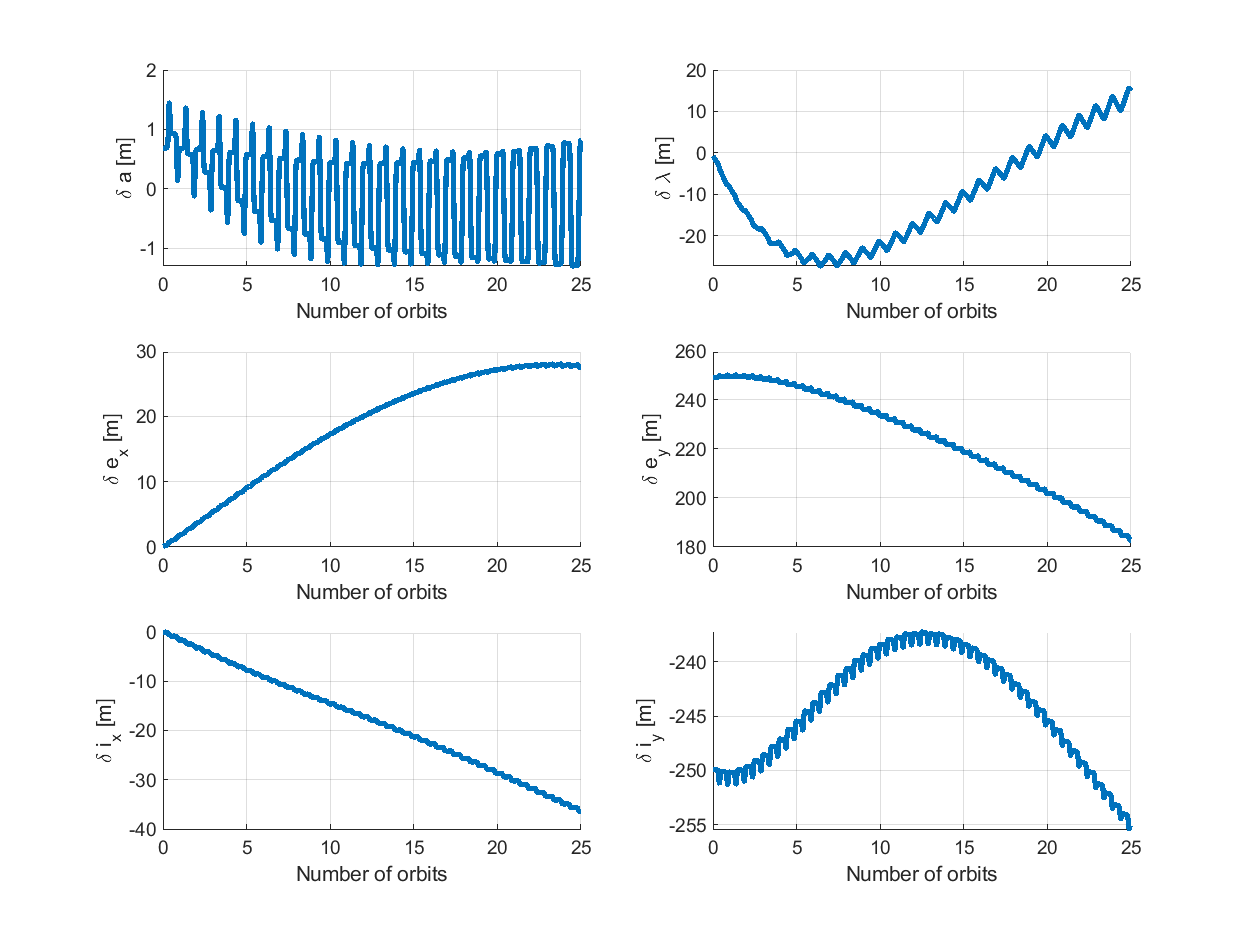
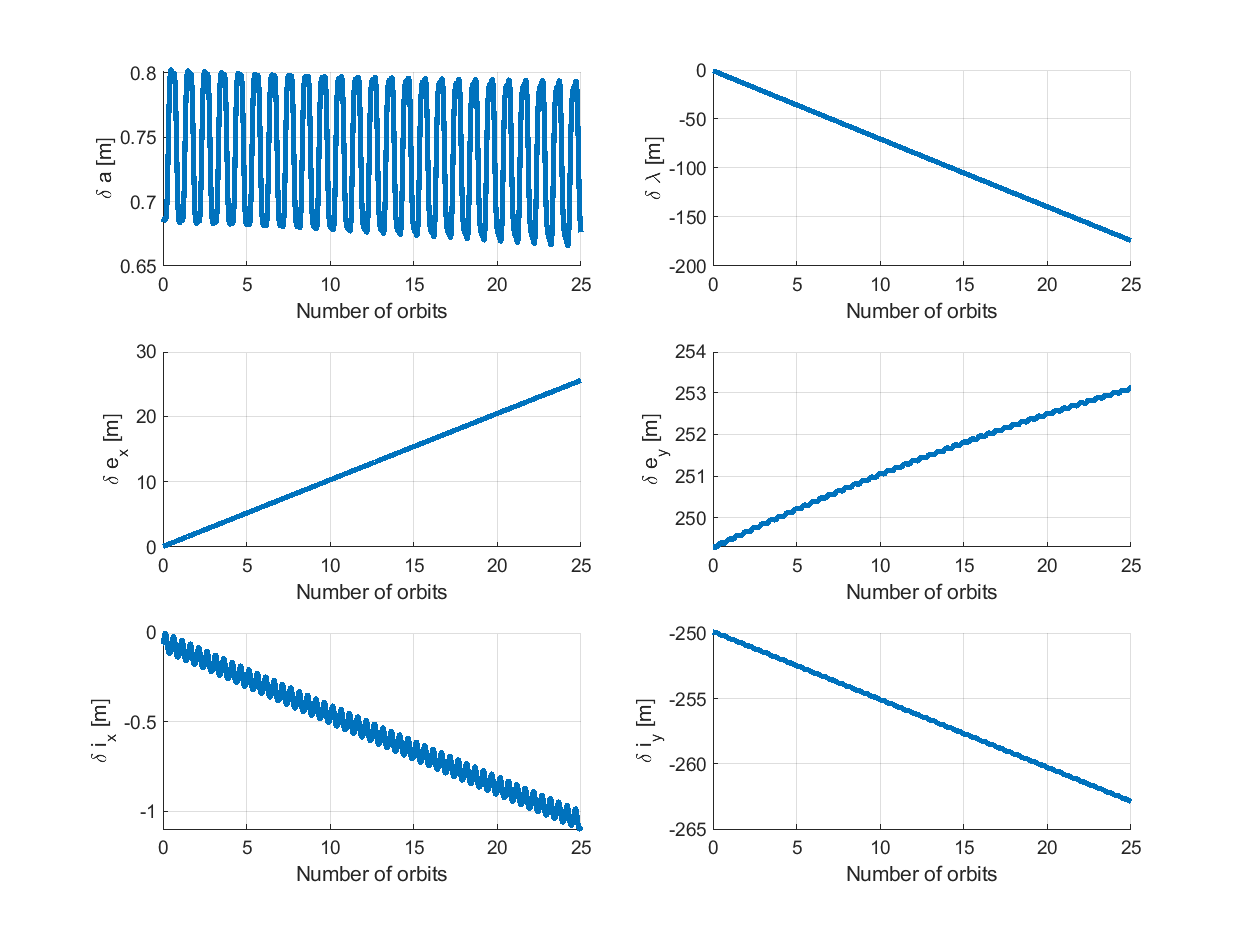
it works!

diff --git a/sim/sim_all_maneuvers_sk_continuous.m b/sim/sim_all_maneuvers_sk_continuous.m
@@ -4,8 +4,8 @@ function sim_all_maneuvers_sk_continuous(SV2_modes, SV3_modes, num_orbits_modes,
     a_chief = SV1_OE_init(1);
 
     % Factors for Lyaponuv feedback gain matrix  
-    N = 4;
-    k = 5000;
+    N = 14;
+    k = 1000;
 
     switch_times = t_orbit*cumsum(reshape([num_orbits_modes; num_orbits_station_keep], 8, 1));
 
@@ -83,8 +83,6 @@ function sim_all_maneuvers_sk_continuous(SV2_modes, SV3_modes, num_orbits_modes,
         SV2_roe = [d_a_SV2, d_lambda_SV2, d_e_x_SV2, d_e_y_SV2, d_i_x_SV2, d_i_y_SV2]/a_chief;
         SV3_roe = [d_a_SV3, d_lambda_SV3, d_e_x_SV3, d_e_y_SV3, d_i_x_SV3, d_i_y_SV3]/a_chief;
 
-        N = 4;
-        k = 5000;
         % SV2 control inputs are always determined the same way
         SV2_a_vals(i, :) = station_keeping_continuous(SV2_roe, SV2_roe_nom, SV2_delta_de_max, SV2_delta_di_max, SV1_oe, N, k);
 
@@ -94,8 +92,6 @@ function sim_all_maneuvers_sk_continuous(SV2_modes, SV3_modes, num_orbits_modes,
         if t < switch_times(1)
             % do nothing, already at initial situation
         elseif t < switch_times(3) && t > switch_times(2)
-            N = 14;
-            k = 3300;
             SV3_roe_nom = SV3_roe_nom_mode2; % Switches it for maneuver and station keeping
             SV3_a_vals(i, :) = Lyapunov_feedback_control(SV3_roe, SV3_roe_nom, SV1_oe, N, k);
         elseif t < switch_times(5) && t > switch_times(4)
@@ -106,12 +102,12 @@ function sim_all_maneuvers_sk_continuous(SV2_modes, SV3_modes, num_orbits_modes,
             SV3_a_vals(i, :) = Lyapunov_feedback_control(SV3_roe, SV3_roe_nom, SV1_oe, N, k);
         else
             % Run station keeping 
-            %SV3_a_vals(i, :) = station_keeping_continuous(SV3_roe, SV3_roe_nom, SV3_delta_de_max, SV3_delta_di_max, SV1_oe, N, k);
+            SV3_a_vals(i, :) = station_keeping_continuous(SV3_roe, SV3_roe_nom, SV3_delta_de_max, SV3_delta_di_max, SV1_oe, N, k);
         end
 
         %%% APPLY ACCELERATION AS DELTA V 
         % Convert a_RTN to dv_RTN by multiplying by dt
-        %SV2_dv_vals(i,:) = dv_RTN2ECI(SV1_state(1:3), SV1_state(4:6), dt*SV2_a_vals(i, :)'/1e3); % m/s^2 --> m/s --> km/s
+        SV2_dv_vals(i,:) = dv_RTN2ECI(SV1_state(1:3), SV1_state(4:6), dt*SV2_a_vals(i, :)'/1e3); % m/s^2 --> m/s --> km/s
         SV3_dv_vals(i,:) = dv_RTN2ECI(SV1_state(1:3), SV1_state(4:6), dt*SV3_a_vals(i, :)'/1e3); % m/s^2 --> m/s --> km/s
 
         SV2_state(4:6) = SV2_state(4:6) + SV2_dv_vals(i,:)';
@@ -148,16 +144,16 @@ function sim_all_maneuvers_sk_continuous(SV2_modes, SV3_modes, num_orbits_modes,
     plot_RT_RN_projections_separate(SV2_rel_pos, SV3_rel_pos, RT, RN, NT, title_str, fig_path);
     [d_a_SV2, d_lambda_SV2, d_e_x_SV2, d_e_y_SV2, d_i_x_SV2, d_i_y_SV2] = ECI2ROE_array_mean(r_SV1, v_SV1, r_SV2, v_SV2, true);
     [d_a_SV3, d_lambda_SV3, d_e_x_SV3, d_e_y_SV3, d_i_x_SV3, d_i_y_SV3] = ECI2ROE_array_mean(r_SV1, v_SV1, r_SV3, v_SV3, true);
-    plot_ROE_planes(full_times, t_orbit, d_a_SV3, d_lambda_SV3, d_e_x_SV3, d_e_y_SV3, d_i_x_SV3, d_i_y_SV3, 'figures/PS6/ROE_planes_SV3.png', 'figures/PS6/ROE_over_time_SV3.png');
-    plot_ROE_planes(full_times, t_orbit, d_a_SV2, d_lambda_SV2, d_e_x_SV2, d_e_y_SV2, d_i_x_SV2, d_i_y_SV2, 'figures/PS6/ROE_planes_SV2.png', 'figures/PS6/ROE_over_time_SV2.png');
+    %plot_ROE_planes(full_times, t_orbit, d_a_SV3, d_lambda_SV3, d_e_x_SV3, d_e_y_SV3, d_i_x_SV3, d_i_y_SV3, 'figures/PS6/ROE_planes_SV3.png', 'figures/PS6/ROE_over_time_SV3.png');
+    %plot_ROE_planes(full_times, t_orbit, d_a_SV2, d_lambda_SV2, d_e_x_SV2, d_e_y_SV2, d_i_x_SV2, d_i_y_SV2, 'figures/PS6/ROE_planes_SV2.png', 'figures/PS6/ROE_over_time_SV2.png');
 
-    plot_ROE_planes_with_modes(full_times, t_orbit, d_a_SV2, d_lambda_SV2, d_e_x_SV2, d_e_y_SV2, d_i_x_SV2, d_i_y_SV2,SV2_modes,...
-        num_orbits_modes, num_orbits_station_keep,'figures/PS6/ROE_planes_modes_SV2.png', 'figures/PS6/ROE_over_time_modes_SV2.png', 'figures/PS6/ROE_error_over_time_modes_SV2.png');
+    %plot_ROE_planes_with_modes(full_times, t_orbit, d_a_SV2, d_lambda_SV2, d_e_x_SV2, d_e_y_SV2, d_i_x_SV2, d_i_y_SV2,SV2_modes,...
+    %    num_orbits_modes, num_orbits_station_keep,'figures/PS6/ROE_planes_modes_SV2.png', 'figures/PS6/ROE_over_time_modes_SV2.png', 'figures/PS6/ROE_error_over_time_modes_SV2.png');
     plot_ROE_planes_with_modes(full_times, t_orbit, d_a_SV3, d_lambda_SV3, d_e_x_SV3, d_e_y_SV3, d_i_x_SV3, d_i_y_SV3,SV3_modes,...
         num_orbits_modes, num_orbits_station_keep,'figures/PS6/ROE_planes_modes_SV3.png', 'figures/PS6/ROE_over_time_modes_SV3.png', 'figures/PS6/ROE_error_over_time_modes_SV3.png');
-    plot_delta_v_timeline(full_times, SV2_dv_vals, t_orbit, SV2_modes, num_orbits_modes, num_orbits_station_keep, ...
-        'figures/PS6/delta_v_timeline_modes_SV2.png');
-    plot_delta_v_timeline(full_times, SV3_dv_vals, t_orbit, SV3_modes, num_orbits_modes, num_orbits_station_keep, ...
-        'figures/PS6/delta_v_timeline_modes_SV3.png');
+    %plot_delta_v_timeline(full_times, SV2_dv_vals, t_orbit, SV2_modes, num_orbits_modes, num_orbits_station_keep, ...
+    %    'figures/PS6/delta_v_timeline_modes_SV2.png');
+    %plot_delta_v_timeline(full_times, SV3_dv_vals, t_orbit, SV3_modes, num_orbits_modes, num_orbits_station_keep, ...
+    %    'figures/PS6/delta_v_timeline_modes_SV3.png');
     
 end

diff --git a/gnc/methods/Lyapunov_feedback_control.m b/gnc/methods/Lyapunov_feedback_control.m
@@ -17,7 +17,11 @@ function control_vec = Lyapunov_feedback_control(roe_curr, roe_desired, oe_chief
 
     a_c_meters = a_c*1e3;
 
-    delta_roe = (roe_curr-roe_desired); %./a_c; % Unscale ROE if needed
+    % using reduced model (remove d_lambda)
+    roe_curr_reduced = [roe_curr(1),roe_curr(3),roe_curr(4),roe_curr(5),roe_curr(6)];
+    roe_desired_reduced = [roe_desired(1),roe_desired(3),roe_desired(4),roe_desired(5),roe_desired(6)];
+
+    delta_roe = (roe_curr_reduced-roe_desired_reduced); %./a_c; % Unscale ROE if needed
 
     % Find the A Matrix (Steindorf Eq A.2)
     eta = sqrt(1 - e_c^2);
@@ -32,7 +36,7 @@ function control_vec = Lyapunov_feedback_control(roe_curr, roe_desired, oe_chief
     T = sin(i_c)^2;
     G = 1 / eta^2;    
 
-    A = zeros(6, 6);
+    A = zeros(5, 5);
     
     A(2,1) = (7/2) * ey * Q;
     A(2,2) = -4 * ex * ey * G * Q;
@@ -64,7 +68,7 @@ function control_vec = Lyapunov_feedback_control(roe_curr, roe_desired, oe_chief
     
     denom = 1 + e_c * cosf;
     
-    B = zeros(6, 2);
+    B = zeros(5, 2);
     
     B(1,1) = (2 / eta) * denom;
     B(2,1) = eta * ((2 + e_c * cosf) * costh + ex) / denom;
@@ -83,10 +87,10 @@ function control_vec = Lyapunov_feedback_control(roe_curr, roe_desired, oe_chief
 
     u = M + omega_c;
 
-    delta_d_e_y = delta_roe(4);
-    delta_d_e_x = delta_roe(3);
-    delta_d_i_y = delta_roe(6);
-    delta_d_i_x = delta_roe(5);
+    delta_d_e_y = delta_roe(3);
+    delta_d_e_x = delta_roe(2);
+    delta_d_i_y = delta_roe(5);
+    delta_d_i_x = delta_roe(4);
 
     u_ip = atan2(delta_d_e_y, delta_d_e_x); % Optimal in-plane argument
     u_oop = atan2(delta_d_i_y, delta_d_i_x); % Optimal out-of-plane argument
@@ -98,13 +102,13 @@ function control_vec = Lyapunov_feedback_control(roe_curr, roe_desired, oe_chief
               cos(J)^N, ...
               cos(J)^N, ...
               cos(H)^N, ...
-              cos(H)^N, ...
               cos(H)^N];
+              %cos(H)^N];
 
     P = diag(P_diag) / k;
     
     % Compute control input
-    u_2 = -pinv(B) * (A * roe_curr' + P * delta_roe');
+    u_2 = -pinv(B) * (A * roe_curr_reduced' + P * delta_roe');
 
     control_vec = [0; u_2(:)];  % 3x1 vector: [0; u_2(1); u_2(2)]
 end

diff --git a/sim/initialize_roe_and_modes.m b/sim/initialize_roe_and_modes.m
@@ -6,7 +6,7 @@ SV2_modes = [
 ];
 
 SV3_modes = [
-    0, 0, 0,   250, 0, -250;
+    0, 0, 10,   250, -10, -250;
     0, 0, 0,   100, 0, -100;
     0, 0, 0,   10, 0, -10;
     0, 0, 0,    1, 0, -1
@@ -17,8 +17,8 @@ SV1_OE_init = [a_SV1_init, e_SV1_init, i_SV1_init, RAAN_SV1_init, w_SV1_init, M_
 a_chief_meters = a_SV1_init*1e3;
 
 % Add up to 25 orbits
-num_orbits_modes = [0,25,0,0];
-num_orbits_station_keep = [0,0,0,0];
+num_orbits_modes = [0,15,10,10];
+num_orbits_station_keep = [0,5,5,5];
 
 SV2_ROE = SV2_modes(1, :);
 SV3_ROE = SV3_modes(1, :);

diff --git a/sim/sim_main.m b/sim/sim_main.m
@@ -27,7 +27,7 @@ load_SV1;
 %%% PROPAGATION TIME DETAILS %%%
 tstart = 0; % Start time (s)
 t_orbit = 2*pi*sqrt(a_SV1_init^3/mu_earth);
-tend = 25*t_orbit; % End time (s)
+tend = 50*t_orbit; % End time (s)
 tint = t_orbit/500.0; % Time step (s)
 
 % Choose which simulations to run
